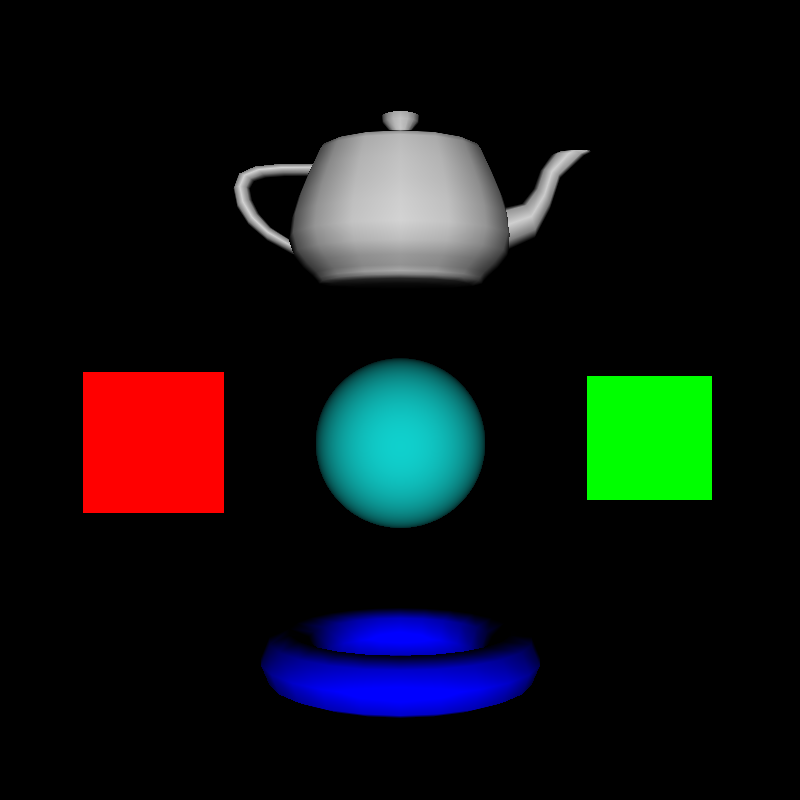
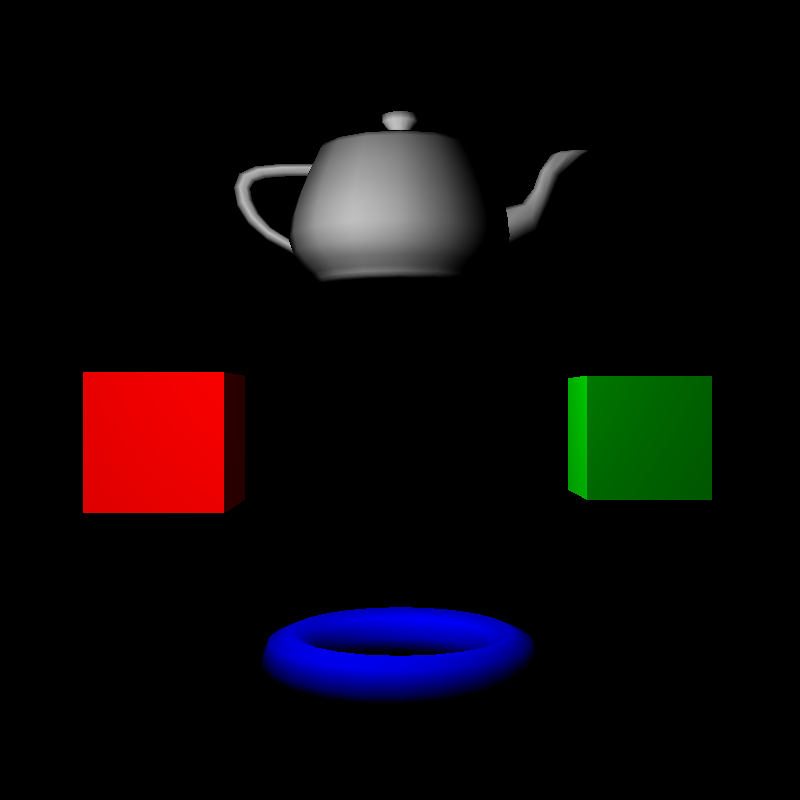
PointLight class added

diff --git a/src/Main/Raytracer.java b/src/Main/Raytracer.java
@@ -1,11 +1,12 @@
 package Main;
 
+import Lights.DirectionalLight;
+import Lights.Light;
+import Lights.PointLight;
 import Objects.Object3D;
 import Objects.Sphere;
 import Tools.*;
 import Tools.FileReader.OBJReader;
-import lights.DirectionalLight;
-import lights.Light;
 
 import javax.imageio.ImageIO;
 import java.awt.Color;
@@ -36,13 +37,14 @@ public class Raytracer {
 
         Scene scene01 = new Scene();
         scene01.setCamera(new Camera(new Vector3D(0, 0, -8), 160, 160, 800, 800, 8.2f, 50f));
-        scene01.addLight(new DirectionalLight(Vector3D.ZERO(), new Vector3D(0.0, 0.0, 1.0), Color.WHITE, 1.1));
-        //scene01.addLight(new DirectionalLight(Vector3D.ZERO(), new Vector3D(0.0, -1.0, 0.0), Color.GREEN, 0.1));
-        //scene01.addObject(new Sphere(new Vector3D(0f, 1f, 5f), 0.5f, Color.RED));
-        //scene01.addObject(new Sphere(new Vector3D(0.35f, 1f, 4.5f), 0.3f, Color.BLUE));
-        //scene01.addObject(new Sphere(new Vector3D(4.85f, 1f, 4.5f), 0.3f, Color.PINK));
-        //scene01.addObject(new Sphere(new Vector3D(2.85f, 1f, 304.5f), 0.5f, Color.BLUE));
-        scene01.addObject(new Sphere(new Vector3D(0f, -0.5f, 4.5f), 1f, new Color(15, 189, 186)));
+        scene01.addLight(new PointLight(new Vector3D(-1f, 1.5f, -1f), Color.WHITE, 1));
+        /*scene01.addLight(new DirectionalLight(Vector3D.ZERO(), new Vector3D(0.0, 0.0, 1.0), Color.WHITE, 1.1));
+        scene01.addLight(new DirectionalLight(Vector3D.ZERO(), new Vector3D(0.0, -1.0, 0.0), Color.GREEN, 0.1));
+        scene01.addObject(new Sphere(new Vector3D(0f, 1f, 5f), 0.5f, Color.RED));
+        scene01.addObject(new Sphere(new Vector3D(0.35f, 1f, 4.5f), 0.3f, Color.BLUE));
+        scene01.addObject(new Sphere(new Vector3D(4.85f, 1f, 4.5f), 0.3f, Color.PINK));
+        scene01.addObject(new Sphere(new Vector3D(2.85f, 1f, 304.5f), 0.5f, Color.BLUE));
+        scene01.addObject(new Sphere(new Vector3D(0f, -0.5f, 4.5f), 1f, new Color(15, 189, 186)));*/
         scene01.addObject(OBJReader.GetPolygon("ObjFiles/Cube.obj", new Vector3D(2f, -0.8f, 1f), Color.green));
         scene01.addObject(OBJReader.GetPolygon("ObjFiles/CubeQuad.obj", new Vector3D(-3.5f, -0.6f, 8f), Color.red));
         scene01.addObject(OBJReader.GetPolygon("ObjFiles/SmallTeapot.obj", new Vector3D(0f, 1f, 1.5f), Color.LIGHT_GRAY));

diff --git a/src/lights/PointLight.java b/src/lights/PointLight.java
@@ -1,0 +1,27 @@
+package Lights;
+
+import Tools.Intersection;
+import Tools.Vector3D;
+
+import java.awt.*;
+
+/**
+ * PointLight Class, this class creates a kind of light that sends light in all directions.
+ * @author LOG1CRS
+ * @author Jafet Rodríguez
+ */
+public class PointLight extends Light {
+    public PointLight(Vector3D position, Color color, double intensity) {
+        super(position, color, intensity);
+    }
+
+    /**
+     *
+     * @param intersection
+     * @return
+     */
+    @Override
+    public float getNDotL(Intersection intersection) {
+        return (float)Math.max(Vector3D.dotProduct(intersection.getNormal(), Vector3D.normalize(Vector3D.substract(getPosition(), intersection.getPosition()))), 0.0);
+    }
+}

diff --git a/src/Tools/Scene.java b/src/Tools/Scene.java
@@ -1,7 +1,8 @@
 package Tools;
 
+import Lights.Light;
 import Objects.Object3D;
-import lights.Light;
+
 
 import java.util.ArrayList;
 

diff --git a/src/lights/Light.java b/src/lights/Light.java
@@ -1,4 +1,4 @@
-package lights;
+package Lights;
 
 import Objects.Object3D;
 import Tools.Intersection;

diff --git a/src/lights/DirectionalLight.java b/src/lights/DirectionalLight.java
@@ -1,4 +1,4 @@
-package lights;
+package Lights;
 
 import Tools.Intersection;
 import Tools.Vector3D;
